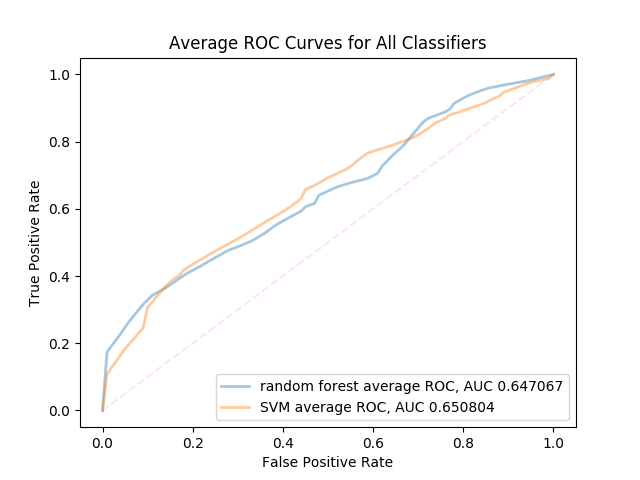
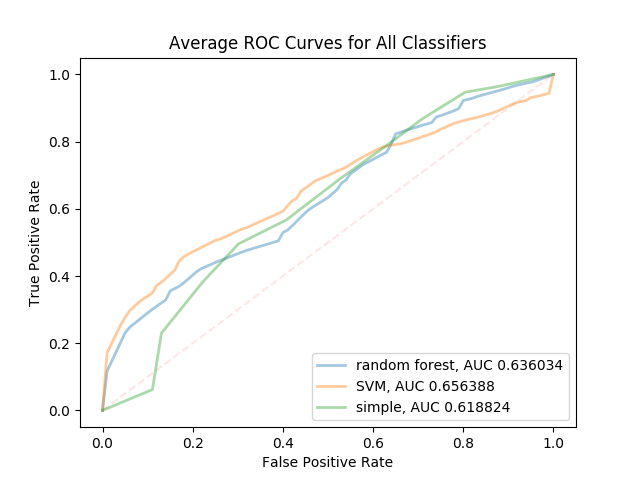
fix 10-fold cv

Changed region(s): [[0.1562, 0.1562, 0.875, 0.875], [0.3438, 0.75, 0.9062, 0.875]]

diff --git a/src/teacup/trainingparser.py b/src/teacup/trainingparser.py
@@ -197,8 +197,8 @@ class TrainingParser:
                 "random forest":ensemble.RandomForestClassifier(n_estimators=100, max_depth=2,random_state=0),
                 "SVM":svm.SVC(kernel="rbf",gamma=1.0/5,probability=True),
                 #"log regression":linear_model.LogisticRegression(),
-                #"simple":Simple1DClassifier(),
-                ##"gradient boosting":ensemble.GradientBoostingClassifier(),
+                "simple":Simple1DClassifier(),
+                #"gradient boosting":ensemble.GradientBoostingClassifier(),
                 #"naive bayes":naive_bayes.GaussianNB()
                }
 
@@ -215,16 +215,18 @@ class TrainingParser:
         auc_list = []
          # Compute ROC curve and ROC area with averaging for each classifier
         for key in clfs:
-            cv = KFold(n_splits=10,shuffle=True)
-            # initialize a list to store the average fpr, tpr, and auc
-            base_fpr = np.linspace(0, 1, 101)
-            tprs = []
-            aucs_val = []
-
             if key == "simple":
-                base_fpr,tprs = self.roc_simple_clf()
-                aucs_val.append(metrics.auc(fpr,tpr))
+                fpr,tpr = self.roc_simple_clf()
+                auc = metrics.auc(fpr,tpr)
+                fpr_list.append(fpr)
+                tpr_list.append(tpr)
+                auc_list.append(auc)
             else:
+                cv = KFold(n_splits=10,shuffle=True)
+                tprs = []
+                aucs_val = []
+                # initialize a list to store the average fpr, tpr, and auc
+                base_fpr = np.linspace(0, 1, 101)
                 print("Cross validation on %s" % key)
                 i = 1
                 for train, test in cv.split(x_train,y_train):
@@ -242,17 +244,17 @@ class TrainingParser:
                     aucs_val.append(auc)
                     i += 1
 
-            # calculate mean true positive rate
-            tprs = np.array(tprs)
-            mean_tprs = tprs.mean(axis=0)
+                    # calculate mean true positive rate
+                tprs = np.array(tprs)
+                mean_tprs = tprs.mean(axis=0)
 
-            # calculate mean auc
-            aucs_val = np.array(aucs_val)
-            mean_aucs = aucs_val.mean(axis=0)
+                # calculate mean auc
+                aucs_val = np.array(aucs_val)
+                mean_aucs = aucs_val.mean(axis=0)
 
-            fpr_list.append(base_fpr)
-            tpr_list.append(mean_tprs)
-            auc_list.append(mean_aucs)
+                fpr_list.append(base_fpr)
+                tpr_list.append(mean_tprs)
+                auc_list.append(mean_aucs)
 
         return fpr_list, tpr_list, auc_list
 
@@ -291,7 +293,7 @@ class TrainingParser:
         """
         plt.plot([0, 1], [0, 1], linestyle="--", color="red", alpha=0.1)
         for i in range(len(fpr_list)):
-            plt.plot(fpr_list[i], tpr_list[i], lw=2, alpha=0.4, label='%s average ROC, AUC %f' % (classifier_names[i], auc_list[i]))
+            plt.plot(fpr_list[i], tpr_list[i], lw=2, alpha=0.4, label='%s, AUC %f' % (classifier_names[i], auc_list[i]))
 
         # Show the ROC curves for all classifiers on the same plot
         plt.xlabel('False Positive Rate')
